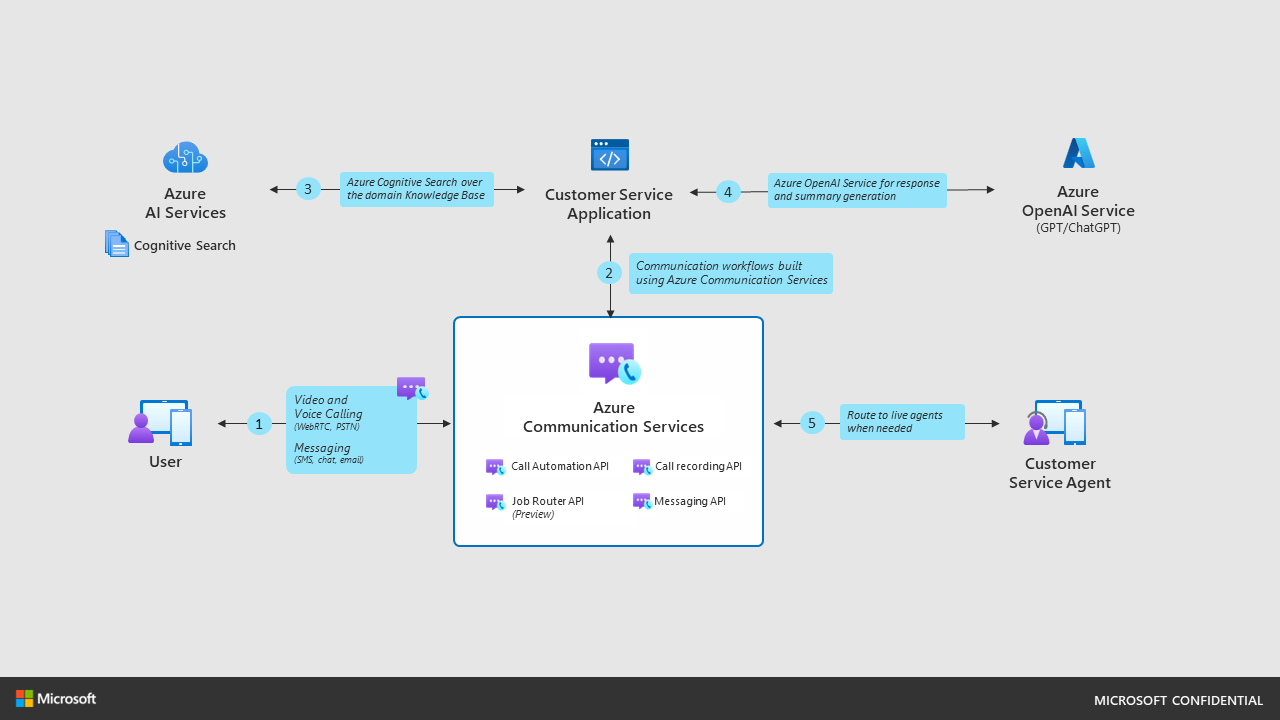
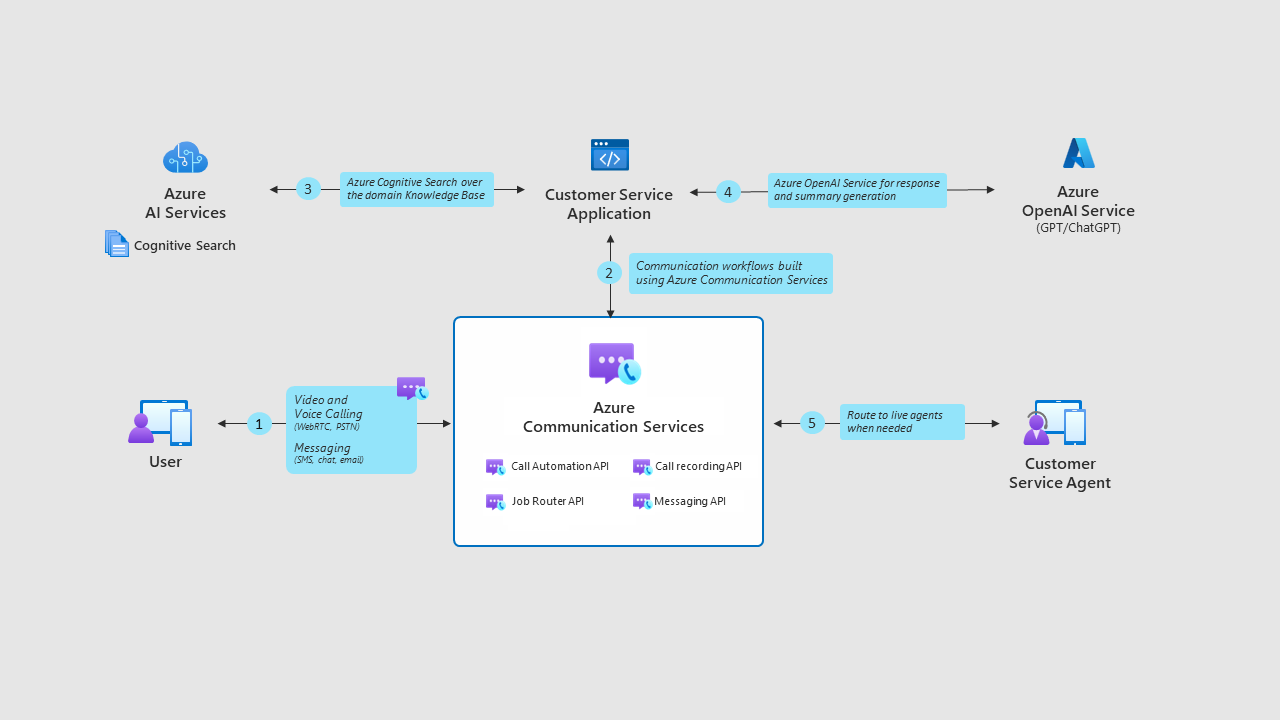
Updating image and ReadMe for Job Router. (#31)

Changed region(s): [[0.0, 0.9167, 1.0, 1.0], [0.4062, 0.7028, 0.4375, 0.7333]]

diff --git a/README.md b/README.md
@@ -11,7 +11,7 @@ The code sample includes a web app that simulates a scenario where a customer in
 - A retrieval augmented generation (RAG) pattern that leverages Azure Cognitive Search to retrieve relevant information from data sources and feed it to Azure Open AI Service.
 - A sample web app for the customer to interact with the chat bot.
 - An escalation from chat conversation to a PSTN call initiated by the bot on customer’s request.
-- A job router that assigns the job to the most suitable technician based on skills, availability, and location.
+- Job router assigns the job to the most suitable technician based on skills, availability, and location.
 - Azure Communication Call Automation to convert voice to text and vice versa.
 - An AI copilot that generates summaries, emails, and answers using the Azure OpenAI Service and Azure AI Service.
 
